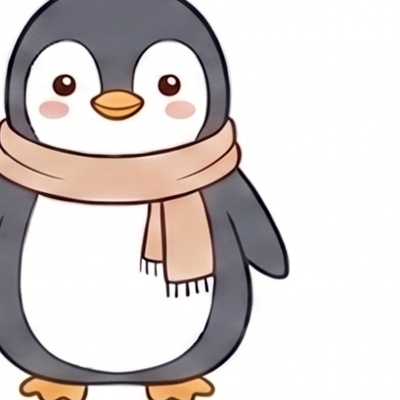
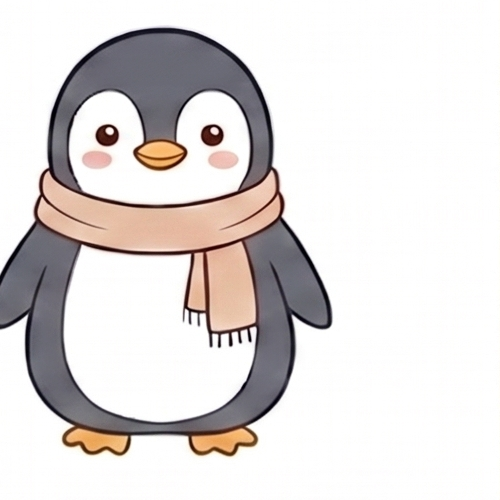
Fix rainbow/penguin crops and hero spacing
Rainbow: full arc visible with cloud, no cutoff or gray edge.
Penguin: complete with feet visible.
Hero image: tighter bottom margin for even spacing to next section.

diff --git a/website/style.css b/website/style.css
@@ -444,8 +444,8 @@ img { max-width: 100%; height: auto; display: block; }
   opacity: 0.75;
 }
 .hero__image {
-  margin-top: 2rem;
-  margin-bottom: 2rem;
+  margin-top: 1.5rem;
+  margin-bottom: 0;
   max-width: 480px;
   margin-inline: auto;
   position: relative;